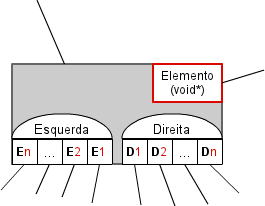
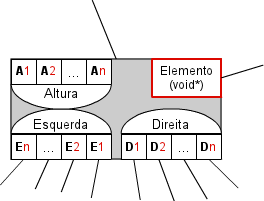
relatório copiado já com algumas revisões, precisa de pelo menos outra revisão

diff --git a/relatorio.tex b/relatorio.tex
@@ -50,6 +50,15 @@
 }
 \fancyfoot[C]{}
 
+%definir regras de hifenização
+\hyphenation{
+chaining
+Hash
+}
+
+%definir comando \hyph{}, necessário para n\hyph{}dimensionais
+\def\hyph{-\penalty0\hskip0pt\relax}
+
 \begin{document}
 
 \onecolumn
@@ -81,28 +90,143 @@
 \end{center}
 
 \newpage
+\twocolumn
 \tableofcontents
+\newpage
+\listoffigures
 
 \newpage
-\twocolumn
-\section{Primeira secção}
-\lipsum[1-2]
-\begin{figure}[htb!]
-    \includegraphics[width=190pt]{image2.png}
-\end{figure}
-\lipsum[1-3]
+\section{Resumo}
+Neste relatório encontram-se explicitadas de forma detalhada as escolhas do \mbox{grupo 42} no que ao projecto da unidade curricular de \mbox{Laboratórios de Informática III} diz respeito. Serão revistas as escolhas em relação às estruturas de dados usadas, a forma como se interligam, a complexidade algorítmica sobre essas mesmas estruturas e outras opções relativas à abordagem do problema que nos é exposto no projecto.
+
+Relativamente às estruturas de dados será feita uma abordagem sobre módulos genéricos e a forma como estes foram tidos em conta como uma possível solução para o problema assim como a implementação na mesma solução.
+
+Para além do já supracitado este relatório serve de referência para o uso da interface do programa pelo utilizador, sendo explicado com pormenor o uso e o funcionamento desta.
 
 \clearpage
-\section{Segunda secção}
-\lipsum[1-1]
-\begin{figure}[htb!]
-    \includegraphics[width=190pt]{image2.png}
-\end{figure}
-\lipsum[1-1]
+\section{Introdução}
+Uma empresa de transportes de nome Transitários LEI procura uma solução informática que permita registar informação relativa aos seus serviços bem como auxiliar a empresa na execução dos mesmos.
 
-\newpage
-\subsection{Uma subsecção}
-\lipsum[1-3]
+É da pretensão da administração da empresa possuir uma base de dados de localidades para e de onde é possível fazer transporte, de clientes, de meios de transportes disponíveis e serviços prestados.
+
+Atendendo às várias restrições que a empresa comporta nos seus serviços como a não existência de dupla direcção de ligações entre duas localidades, prevê-se que seja necessário que o programa execute várias tarefas, fazendo-se notar as seguintes:
+\begin{itemize}
+    \item{Inserção e remoção de localidades;}
+    \item{Inserção e remoção de ligações entre localidades;}
+    \item{Alteração das propriedades de localidades e das ligações entre estas;}
+    \item{Inserção, remoção e edição tanto de clientes como dos meios de transporte possuídos pela empresa}
+    \item{Registo dos serviços prestados}
+\end{itemize}
+Tendo estas informações como base irá de seguida ser mostrado o processo de análise e
+solução do problema apresentado implementado na linguagem imperativa C.
+
+\clearpage
+\section{Conteúdo}
+\subsection[Estruturas de dados]{Estruturas de dados -- Abordagem geral ao problema}
+\label{abordagem geral}
+Tendo em conta o problema apresentado pela empresa Transitários LEI chegou-se a uma possível solução que prova ser eficiente na execução das tarefas que são necessárias satisfazer. De forma sucinta presentemente, e mais à frente neste relatório de forma mais detalhada, passa-se então à explicação das escolhas das estruturas de dados para a implementação de uma solução que satisfaça os requisitos da empresa. Dividindo o problema em duas partes, no âmbito do tipo de dados a tratar temos de um lado localidades e do outro clientes e camiões.
+
+No caso das localidades, optou-se por usar uma estrutura que fosse eficiente o suficiente para oferecer ao utilizador uma robustez suficiente para lidar com uma grande gama em termos de quantidade de localidades e ao mesmo tempo que oferece-se rapidez na procura. A solução idealizada e que foi de facto implementada foi uma Tabela de Dispersão (‘Hash Table’) com encadeamento (‘Chaining’), ou seja, em cada uma das posições da tabela é utilizado um apontador para uma lista ligada de localizações de forma a evitar colisões na tabela. Também é de referir que a cada localidade estão associadas duas listas ligadas que indicam as localidades a que uma determinada localidade está associada por ligação. Esta solução traz à solução uma rapidez considerável assim como uma inserção igualmente rápida comparativamente a outras estruturas de dados.
+
+Relativamente aos camiões e clientes, a solução encontrada foi utilizar uma árvore binária AVL, ou seja uma árvore binária de procura balanceada por altura, mas com a particularidade de ter n\hyph{}dimensões, ou seja, torna-se possível balancear uma única árvore de tendo em conta diferentes critérios sem a necessidade de recorrer à criação de uma outra árvore binária.
+
+Tendo em conta a necessidade de procurar intensivamente tanto clientes como camiões, este tipo de estrutura beneficia de forma acentuada o acesso aos dados e apesar de incorrer em falta no que à inserção e balanceamento diz respeito, é necessário notar que uma pesquisa de clientes é uma operação utilizada de forma bem mais rotineira que uma inserção, logo este pequeno obstáculo à eficiência, faz-se provar não tão grave quando comparado com a eficiência que nos é dada relativamente à pesquisa.
+
+
+\clearpage
+\subsection[Localidades]{Localidades -- Tabela de Hash com chaining, Grafos e Listas Ligadas}
+Uma tabela de dispersão permite operações sobre os elementos desta bastante rápidos e eficientes pois é possível encontrar um elemento através de uma `hashkey', ou chave de dispersão, que associa imediatamente o elemento a uma posição do array, tanto para pesquisas como inserções ou remoções. Essa associação muitas vezes resulta em colisões, ou seja, a função que gera as chaves de dispersão pode gerar a mesma chave para dois elementos diferentes o que impediria a inserção, por exemplo, de outro elemento com a mesma chave numa determinada posição do array já ocupada. Como forma de resolver este problema optou-se pela utilização de encadeamento sobre a tabela de dispersão, ou seja, para cada posição do array é possível introduzir todos os elementos que fiquem associados a ele através da sua chave de dispersão usando listas ligadas, evitando assim colisões. Para este caso em concreto um rápido acesso às localidades traduz-me numa vantagem enorme na implementação de
+algoritmos sobre estas.
+
+Usando o conceito de grafo, é possível introduzir uma localidade na tabela de dispersão, e vendo essa localidade como um vértice de um grafo, é possível adicionar a cada localidade uma lista de adjacências, ou seja, para este caso propriamente dito, duas listas que indicam quais as localidades que se ligam a uma determinada localidade assim como as localidades que estão ligadas a essa mesma localidade.
+
+Como é necessário que o programa mostre robustez a lidar com um grande número de localidades, a tabela de dispersão está preparada para fazes escalonamento sempre que se torne evidente que está a ficar com um factor de carga elevado, o que também prejudica a dispersão na tabela.
+
+A implementação foi baseada em módulos genéricos de Tabelas de dispersão e listas ligadas capazes de lidar com a situação já descrita. Em termos de complexidade algorítmica, o acesso aos dados é de $1+n$ em que $n$ é o número de elementos da lista nessa posição da tabela. Mas tendo em conta que assim que o factor de carga da tabela de hashing seja superior a metade do tamanho da tabela, esta é escalada para o seu dobro, a dispersão é muito mais eficiente e as listas serão em seu tamanho diminutas. Assim, a utilização de listas não afectará de forma notável o desempenho da aplicação. Para as listas ligadas a complexidade algorítmica é $O(n)$.
+
+Seguindo-se neste relatório encontram-se duas figuras ilustrativas da forma como as localidades usam as estruturas de dados acima referidos, de uma forma mais genérica.
+
+IMAGEM
+
+IMAGEM
+
+\clearpage
+\subsection[Clientes e Camiões]{Clientes e Camiões -- Árvores AVL n\hyph{}dimensionais}
+As árvores Adelson-Velskii Landis n\hyph{}dimensionais surgiram da necessidade de ordenar o mesmo conjunto de informação de várias formas diferentes, isto sem ocupar demasiado espaço em memória.
+
+As árvores AVL são árvores binárias balanceadas de modo a terem sempre complexidade logarítmica de base 2 ($\log_2 n$). Cada nodo de uma árvore AVL é constituído por:
+\begin{itemize}
+\item{Apontador para o nodo à esquerda;}
+\item{Apontador para o nodo à direita;}
+\item{Indicador da altura do nodo;}
+\item{Apontador para os dados.}
+\end{itemize}
+Usar árvores binárias AVL, pelos motivos enunciados na \emph{Abordagem geral ao problema} (Secção \ref{abordagem geral}), é a melhor forma de organizar a informação relativa a clientes e camiões. Mas para termos a informação optimizada para pesquisa precisávamos de ter tantas árvores binárias quantos os campos pelos quais queríamos ordenar a informação. Como isso seria um desperdício de memória, procurou-se uma alternativa que solucionasse o nosso problema sem ocupar muitos recursos. Assim surgiram as AVL n\hyph{}dimensionais.
+\begin{figure}[hbt]
+    \caption[Nodo AVL n\hyph{}dimensional]{Nodo AVL n\hyph{}dimensional.}
+    \label{nodo avl ndimensional}
+    \centering
+        \includegraphics[width=180pt]{nodo_ndavl.png}
+\end{figure}
+\begin{figure}[hbt]
+    \caption[Representação lógica AVL bi\hyph{}dimensional]{Representação lógica de uma AVL bi\hyph{}dimensional}
+    \label{duas avl comuns}
+    \centering
+        \includegraphics[width=170pt]{duas_avl_comuns.png}
+\end{figure}
+
+As AVL n\hyph{}dimensionais não são mais que várias árvores AVL que partilham o espaço em memória e estão organizadas logicamente de maneiras distintas, fazendo para esse efeito, uso de um conjunto de apontadores para nodos à esquerda e à direita, em vez de apenas um para cada direcção. Esse conjunto (array) de apontadores permite fazer a distinção entre as várias dimensões, assim como ter a possibilidade de ajustar o código para comportar mais dimensões. Cada posição do array define uma ``dimensão'' da árvore, ou seja, uma maneira diferente de organizar a informação tendo em conta critérios de procura distintos.
+As árvores binárias AVL de n\hyph{}dimensões são assim compostas por:
+\begin{itemize}
+\item{Apontadores para os nodo à esquerda (array);}
+\item{Apontadores para os nodo à direita (array);}
+\item{Indicadores da altura do nodo (array);}
+\item{Apontador para os dados.}
+\end{itemize}
+É necessário ter vários indicadores de altura para o mesmo nodo, pois a altura do nodo depende de uma organização específica e diferente para cada dimensão da árvore. Pode-se ter uma noção mias clara da organização de um nodo AVL n\hyph{}dimensional pela observação da figura~\ref{nodo avl ndimensional}.
+
+Com o auxílio das figuras~\ref{nodo avl ndimensional} e~\ref{duas avl comuns} consegue-se perceber que uma AVL com n\hyph{}dimensões não é mais que $n$ árvores binárias que partilham o espaço de memória.
+
+\clearpage
+\subsection{Interface}
+A interface da aplicação foi desenvolvida de forma a ser independente do resto da solução. O módulo de interface tem apenas duas funções: mostrar um menu e fazer uso de funções externas para responder ao input do utilizador.
+\begin{figure}[hbt]
+    \caption[Menu Principal]{Menu Principal}
+    \label{menu principal}
+    \centering
+        \includegraphics[width=200pt]{menu_principal.png}
+\end{figure}
+\begin{figure}[hbt]
+    \caption[Menu Gestão Clientes]{Menu de Gestão de Clientes}
+    \label{menu gerir clientes}
+    \centering
+        \includegraphics[width=200pt]{menu_gestao_de_clientes.png}
+\end{figure}
+
+A interface foi desenhada para ser simples e poderosa, isto é, ao mesmo tempo que permite ao utilizador comum a utilização do programa, deixa que o utilizador avançado utilize atalhos e combinações de números para navegar rapidamente pelos menus e sub-menus.
+Existem duas implementações dignas de destaque no módulo de interface:
+
+
+A primeira é a possibilidade de introduzir uma sequência de números para navegar pelos menus de forma mais rápida, isto é, imagine-se a seguinte situação: o utilizador, para realizar determinada acção, tem de escolher a segunda opção do menu, seguida da primeira opção de um sub-menu e depois escolher ainda a terceira opção de um sub-menu deste ultimo. Em vez disto, o utilizador pode introduzir (neste caso)~213 no menu principal e a aplicação executará imediatamente a acção determinada.
+
+A segunda implementação consiste na apresentação de três atalhos no menu principal que correspondem precisamente às três últimas funções solicitadas pelo utilizador. Assim aumenta-se a produtividade de um utilizador que realize tarefas repetitivas.
+Nas figuras~\ref{menu principal} e~\ref{menu principal com atalho diferente} pode-se observar uma alteração nos atalhos apresentados.
+\begin{figure}[hbt]
+    \caption[Menu Principal (atalho)]{Menu com atalho diferente}
+    \label{menu principal com atalho diferente}
+    \centering
+        \includegraphics[width=200pt]{menu_com_atalho_diferente.png}
+\end{figure}
+
+
+
+\clearpage
+\section{Conclusão}
+Este relatório serve de referência para as soluções e implementações que, tendo em conta todas as indicações dadas pelo enunciado do projecto, foram tidas em conta pelo grupo. De forma sucinta a escolha passou por Tabela de Hash com chaining utilizando o conceito de grafo e listas ligadas para tratamento de localidades e árvores AVL n\hyph{}dimensionais para o tratamento de clientes e camiões.
+
+Durante a fase de trabalhos do grupo recorreu-se ao git devido à sua capacidade de controlo de versões.
+
+De saudar também o empenho dos elementos do grupo que trabalharam afincadamente na realização desta etapa do projecto.
 
 \clearpage
 \onecolumn
